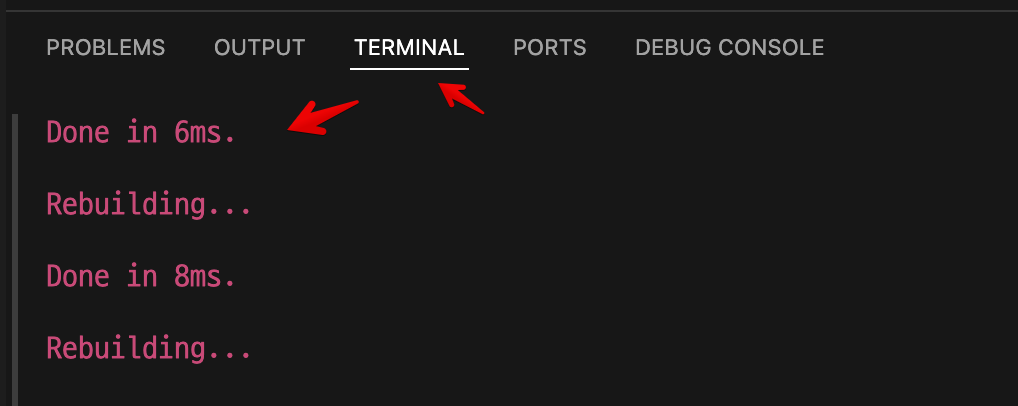
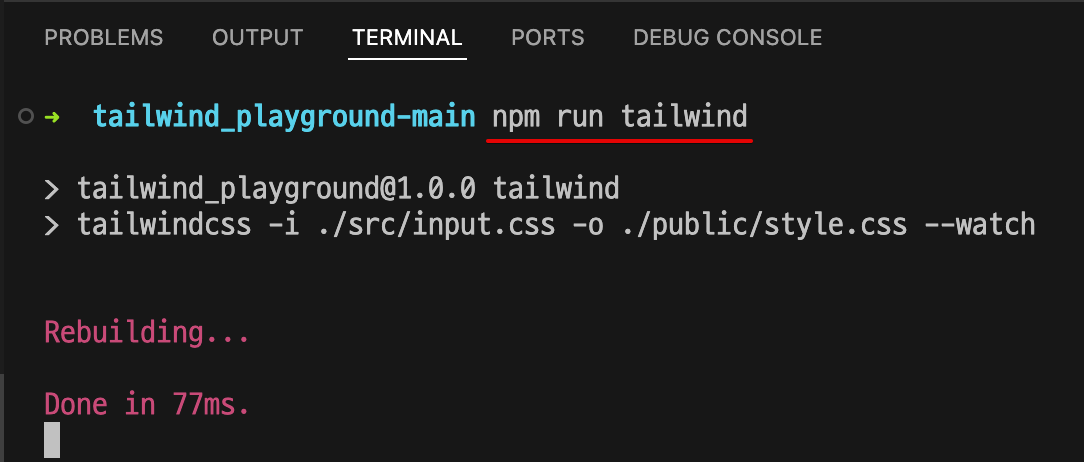
doc/more README

diff --git a/README.md b/README.md
@@ -49,6 +49,7 @@
 이 Github 레포지토리를 로컬에 다운로드 받아 압축을 풀고 나오는 폴더를 VS Code에서 엽니다.
 
 ![](./README_IMG/download-repo.png)
+![](./README_IMG/open-in-vs-code.png)
 
 ### Tailwind CSS 모듈 설치
 Tailwind CSS 모듈설치에 필요한 모든 것들은 이미 `package.json`에 명시되어있습니다. 
@@ -58,6 +59,7 @@ Tailwind CSS 모듈설치에 필요한 모든 것들은 이미 `package.json`에
 ~~~
 npm install
 ~~~
+![](./README_IMG/npm-install.png)
 > 명령어 실행위치는 `package.json`파일이 위치한 레포지토리 폴더여야합니다. VS Code에서 레포지토리를 정상적으로 열었다면 해당 위치일 것입니다.
 
 설치가 완료되면 `node_modules`폴더가 생성되고 그 안에 모든 모듈이 다운로드 받아진 것을 볼 수 있습니다.
@@ -69,15 +71,15 @@ npm install
 
 ## ● 페이지 디자인 시작 및 실시간 미리보기
 
-### 1) html 파일 열기
-`public/index.html`을 열고 여기에서 웹페이지를 디자인할 수 있습니다. Tailwind CSS 아웃풋 파일은 아래와 같이 링크되어있습니다만 아직 최초 빌드 전에는 아직 파일이 존재하지 않습니다.
+### 1) index.html 파일
+`public/index.html`을 열고 여기에서 웹페이지를 디자인할 수 있습니다. Tailwind CSS 아웃풋 파일은 아래와 같이 링크되어있습니다만 최초 빌드 전에는 아직 파일이 존재하지 않습니다.
 
 ![](./README_IMG/stylesheet-output-file-link.png)
 
 또한 다른 페이지가 추가로 필요하다면 `public` 폴더 하위에 `html`파일을 만들고 위와같이 `<head>`태그안에 아웃풋 파일을 링크해 사용해주세요.
 
 ### 2) 아웃풋 파일 실시간 자동 빌드 실행
-Tailwind CSS는 html,js 파일에서 사용된 Tailwind CSS `class=""` 이름들에대해서만 출력파일을 만드는 Post-processed CSS 입니다. 현재 레포지토리는 `public`폴더에 있는 `.html`, `.js` 파일을 인식하도록 설정되어있습니다.
+Tailwind CSS는 html,js 파일에서 사용된 `class=""` 이름들에 대해서만 출력파일을 만드는 Post-processed CSS 입니다. 현재 레포지토리는 `public`폴더에 있는 `.html`, `.js` 파일을 인식하도록 설정되어있습니다.
 
 `VS Code`의 `Terminal` 창을 열고 (`Control`+`Shift`+`~` ) 다음명령어를 입력하세요. 
 ~~~
@@ -85,16 +87,20 @@ npm run tailwind
 ~~~
 > 참고: 이 명령어는 Tailwind CSS 인풋파일에서 아웃풋파일을 만드는 긴 명령어를 편의를 위해 축약한 것이며, `package.json`의 `scripts`에 정의해둔 커스텀 `npm run` 명령어입니다.
 
-이 명령어를 실행하면 아래처럼 실시간 프로세스가 실행되며 html 파일을 저장 할 때마다 자동으로 `public/style.css` 파일이 생성, 변경됩니다.
 
 ![](./README_IMG/tailwind-watch-in-terminal.png)
 
-> 자동 빌드 실행을 중지하려면 터미널에서 `Control`+`C`키를 누르십시오.
+> 자동빌드 프로세스를 중지하려면 터미널에서 `Control`+`C`키를 누르십시오.
+
+이 자동빌드 프로세스가 실행중이면 html 파일을 수정해서 저장 할 때마다 사용된 클래스명을 인식해 자동으로 `public/style.css` 파일이 생성, 업데이트 됩니다.
+
 
 ### 3) Live Server로 로컬서버 실행해서 미리보기
-현재 작업중이 `.html`파일에서 우클릭 메뉴로  `Live Server`를 열거나, VS Code 오른쪽 하단에 나오는 `Go Live` 버튼을 클릭하면 현재 작업폴더에 해당하는 로컬서버 주소로 실행됩니다.
+현재 작업중이 `.html`파일의 코드편집화면에서 마우스 우클릭 메뉴로  `Live Server`를 열거나, VS Code 오른쪽 하단에 나오는 `Go Live` 버튼을 클릭하면 현재 작업폴더에 해당하는 로컬서버 주소로 실행됩니다.
 
 ![](./README_IMG/open-live-server-menu.png)
 > 참고: VS Code에서 현재 작업중인 문서가 `.html`파일이 아니면 폴더 구조가 출력될 뿐입니다.
 
-이제 `index.html` 파일을 수정하고 저장 할 때마다 열려있는 웹브라우저가 리로드됩니다.
+이제 `index.html` 파일을 수정하고 저장 할 때마다 열려있는 웹브라우저가 자동으로 리로드되는 것을 볼 수 있습니다.
+
+Live Server로 웹페이지가 열리면 위 2)번에서의 자동빌드 프로세스가 실행중이 아니더라도 웹브라우저가 자동 리로드는 될 것이지만, Tailwind 아웃풋파일이 빌드되지 않으면 새롭게 추가하는 CSS 클래스명은 반영되지 않을 것입니다.
